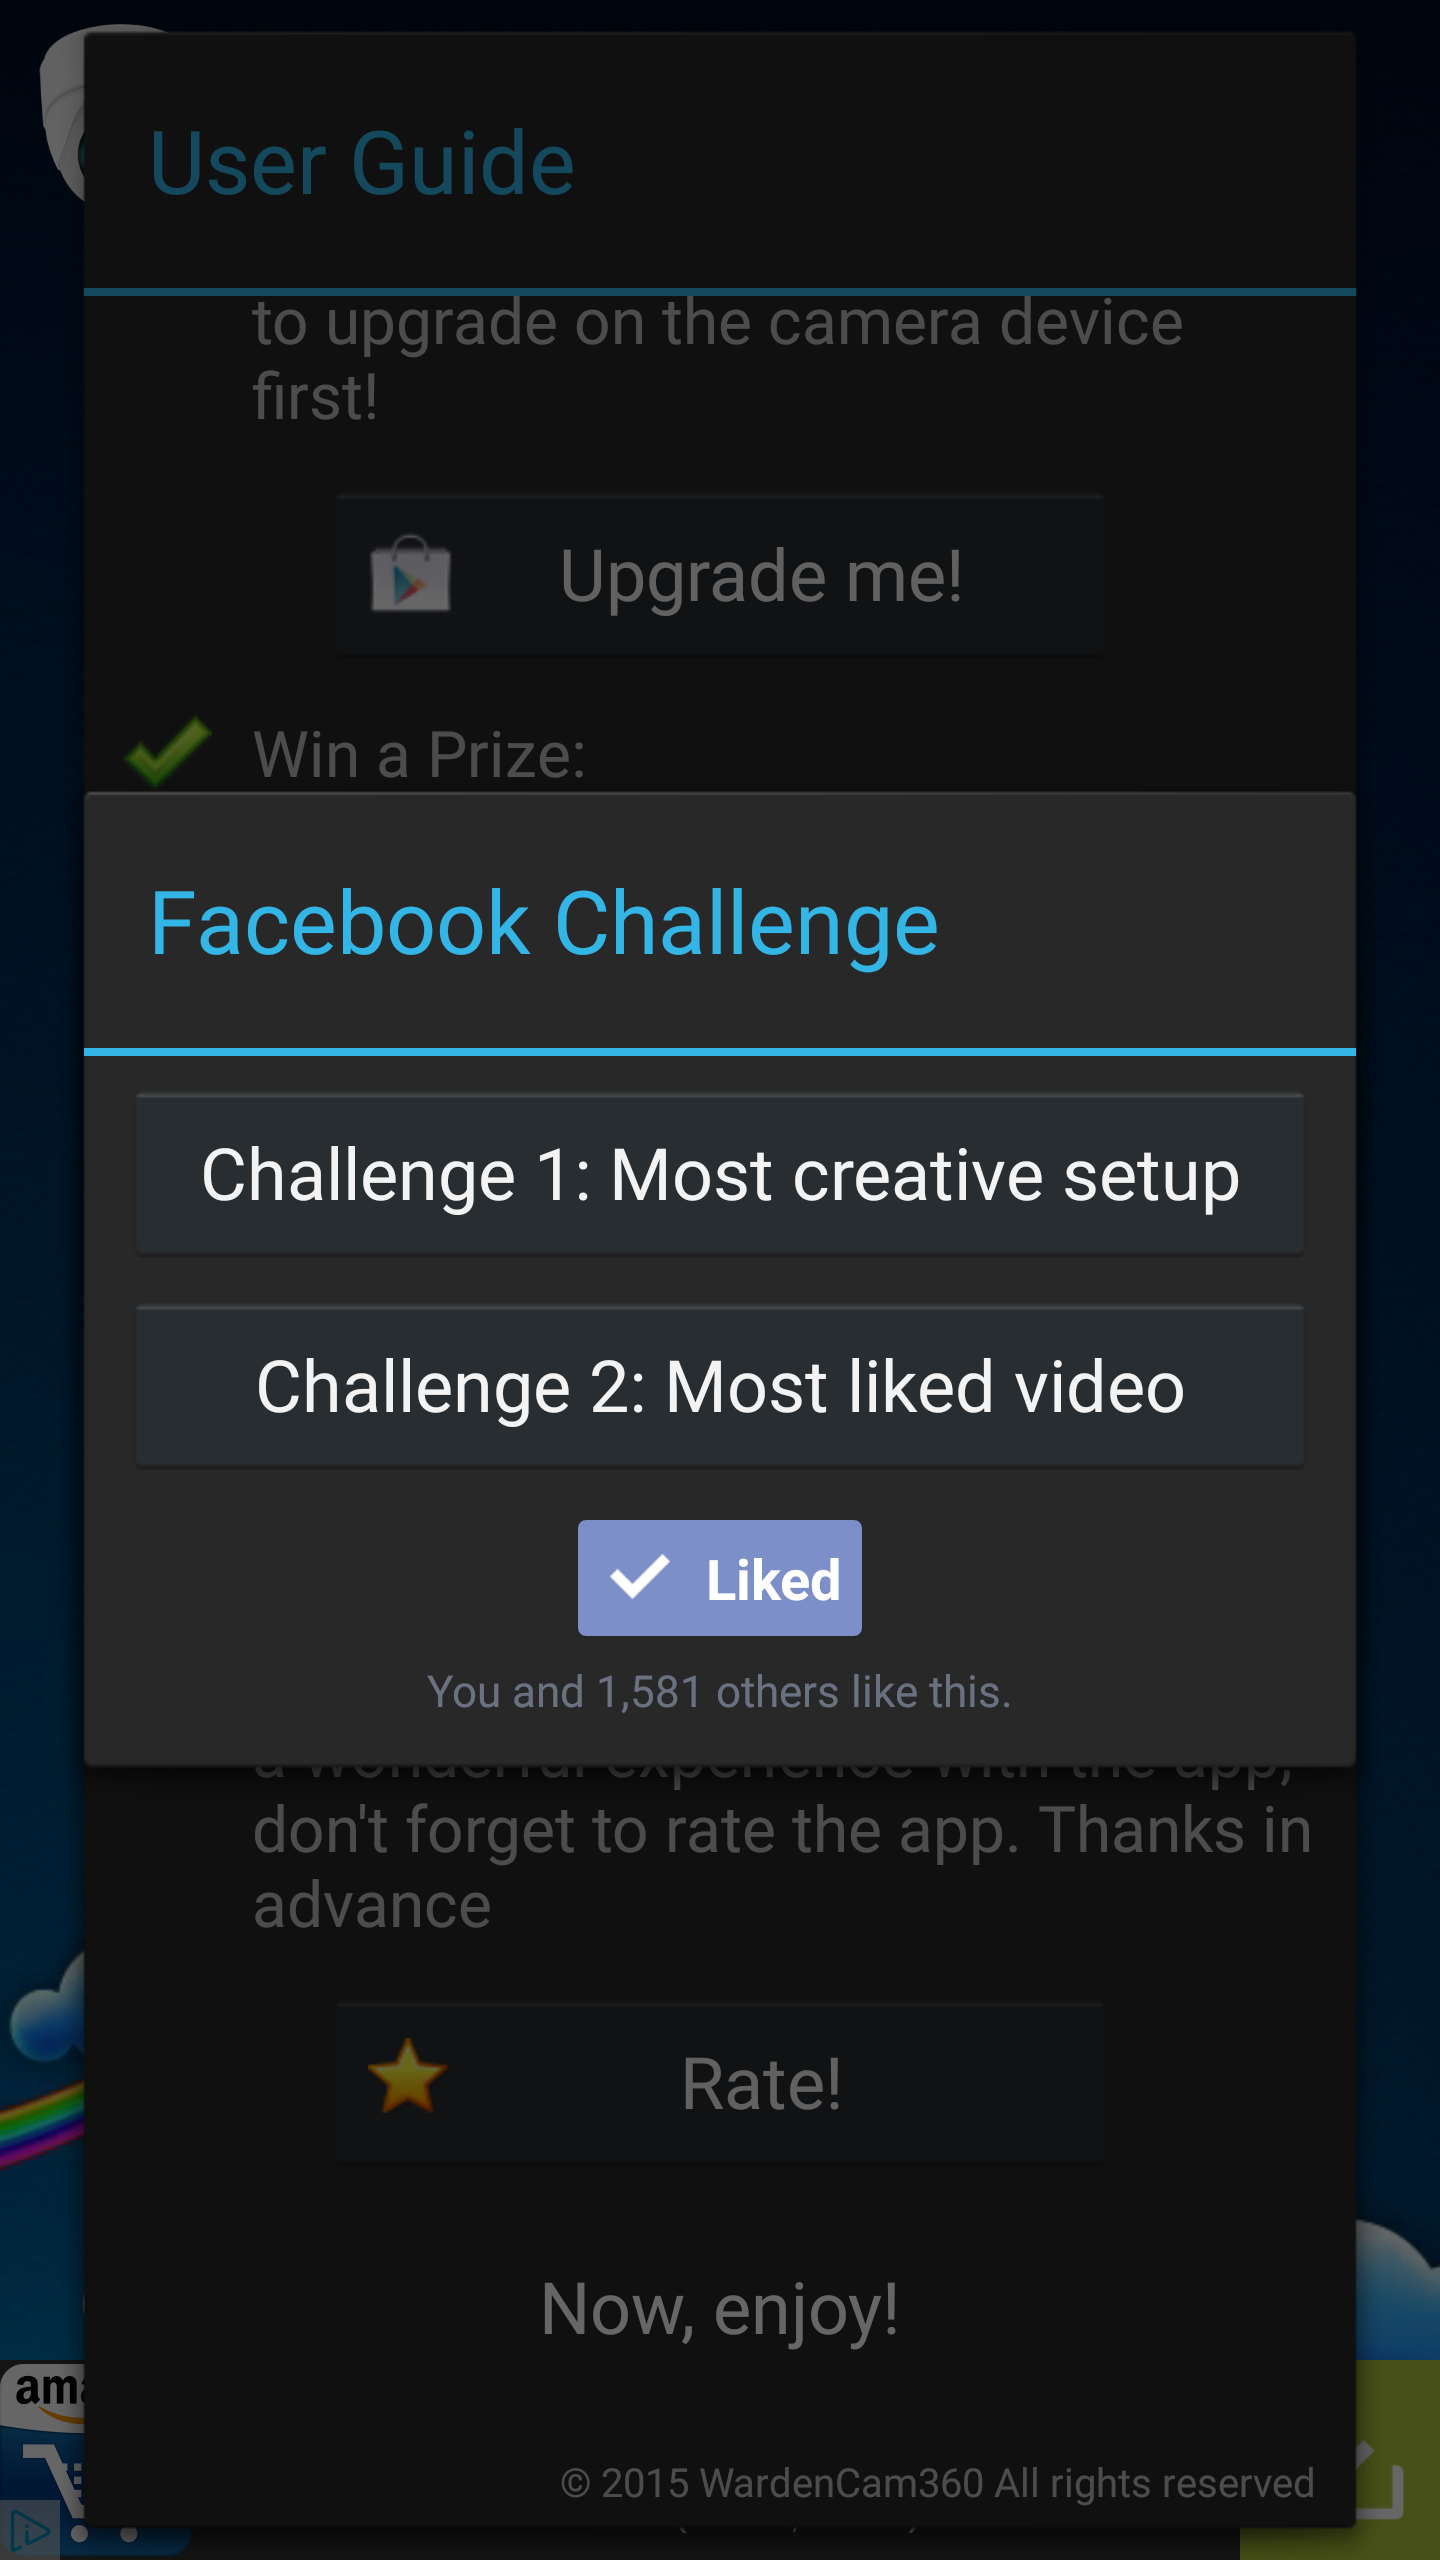
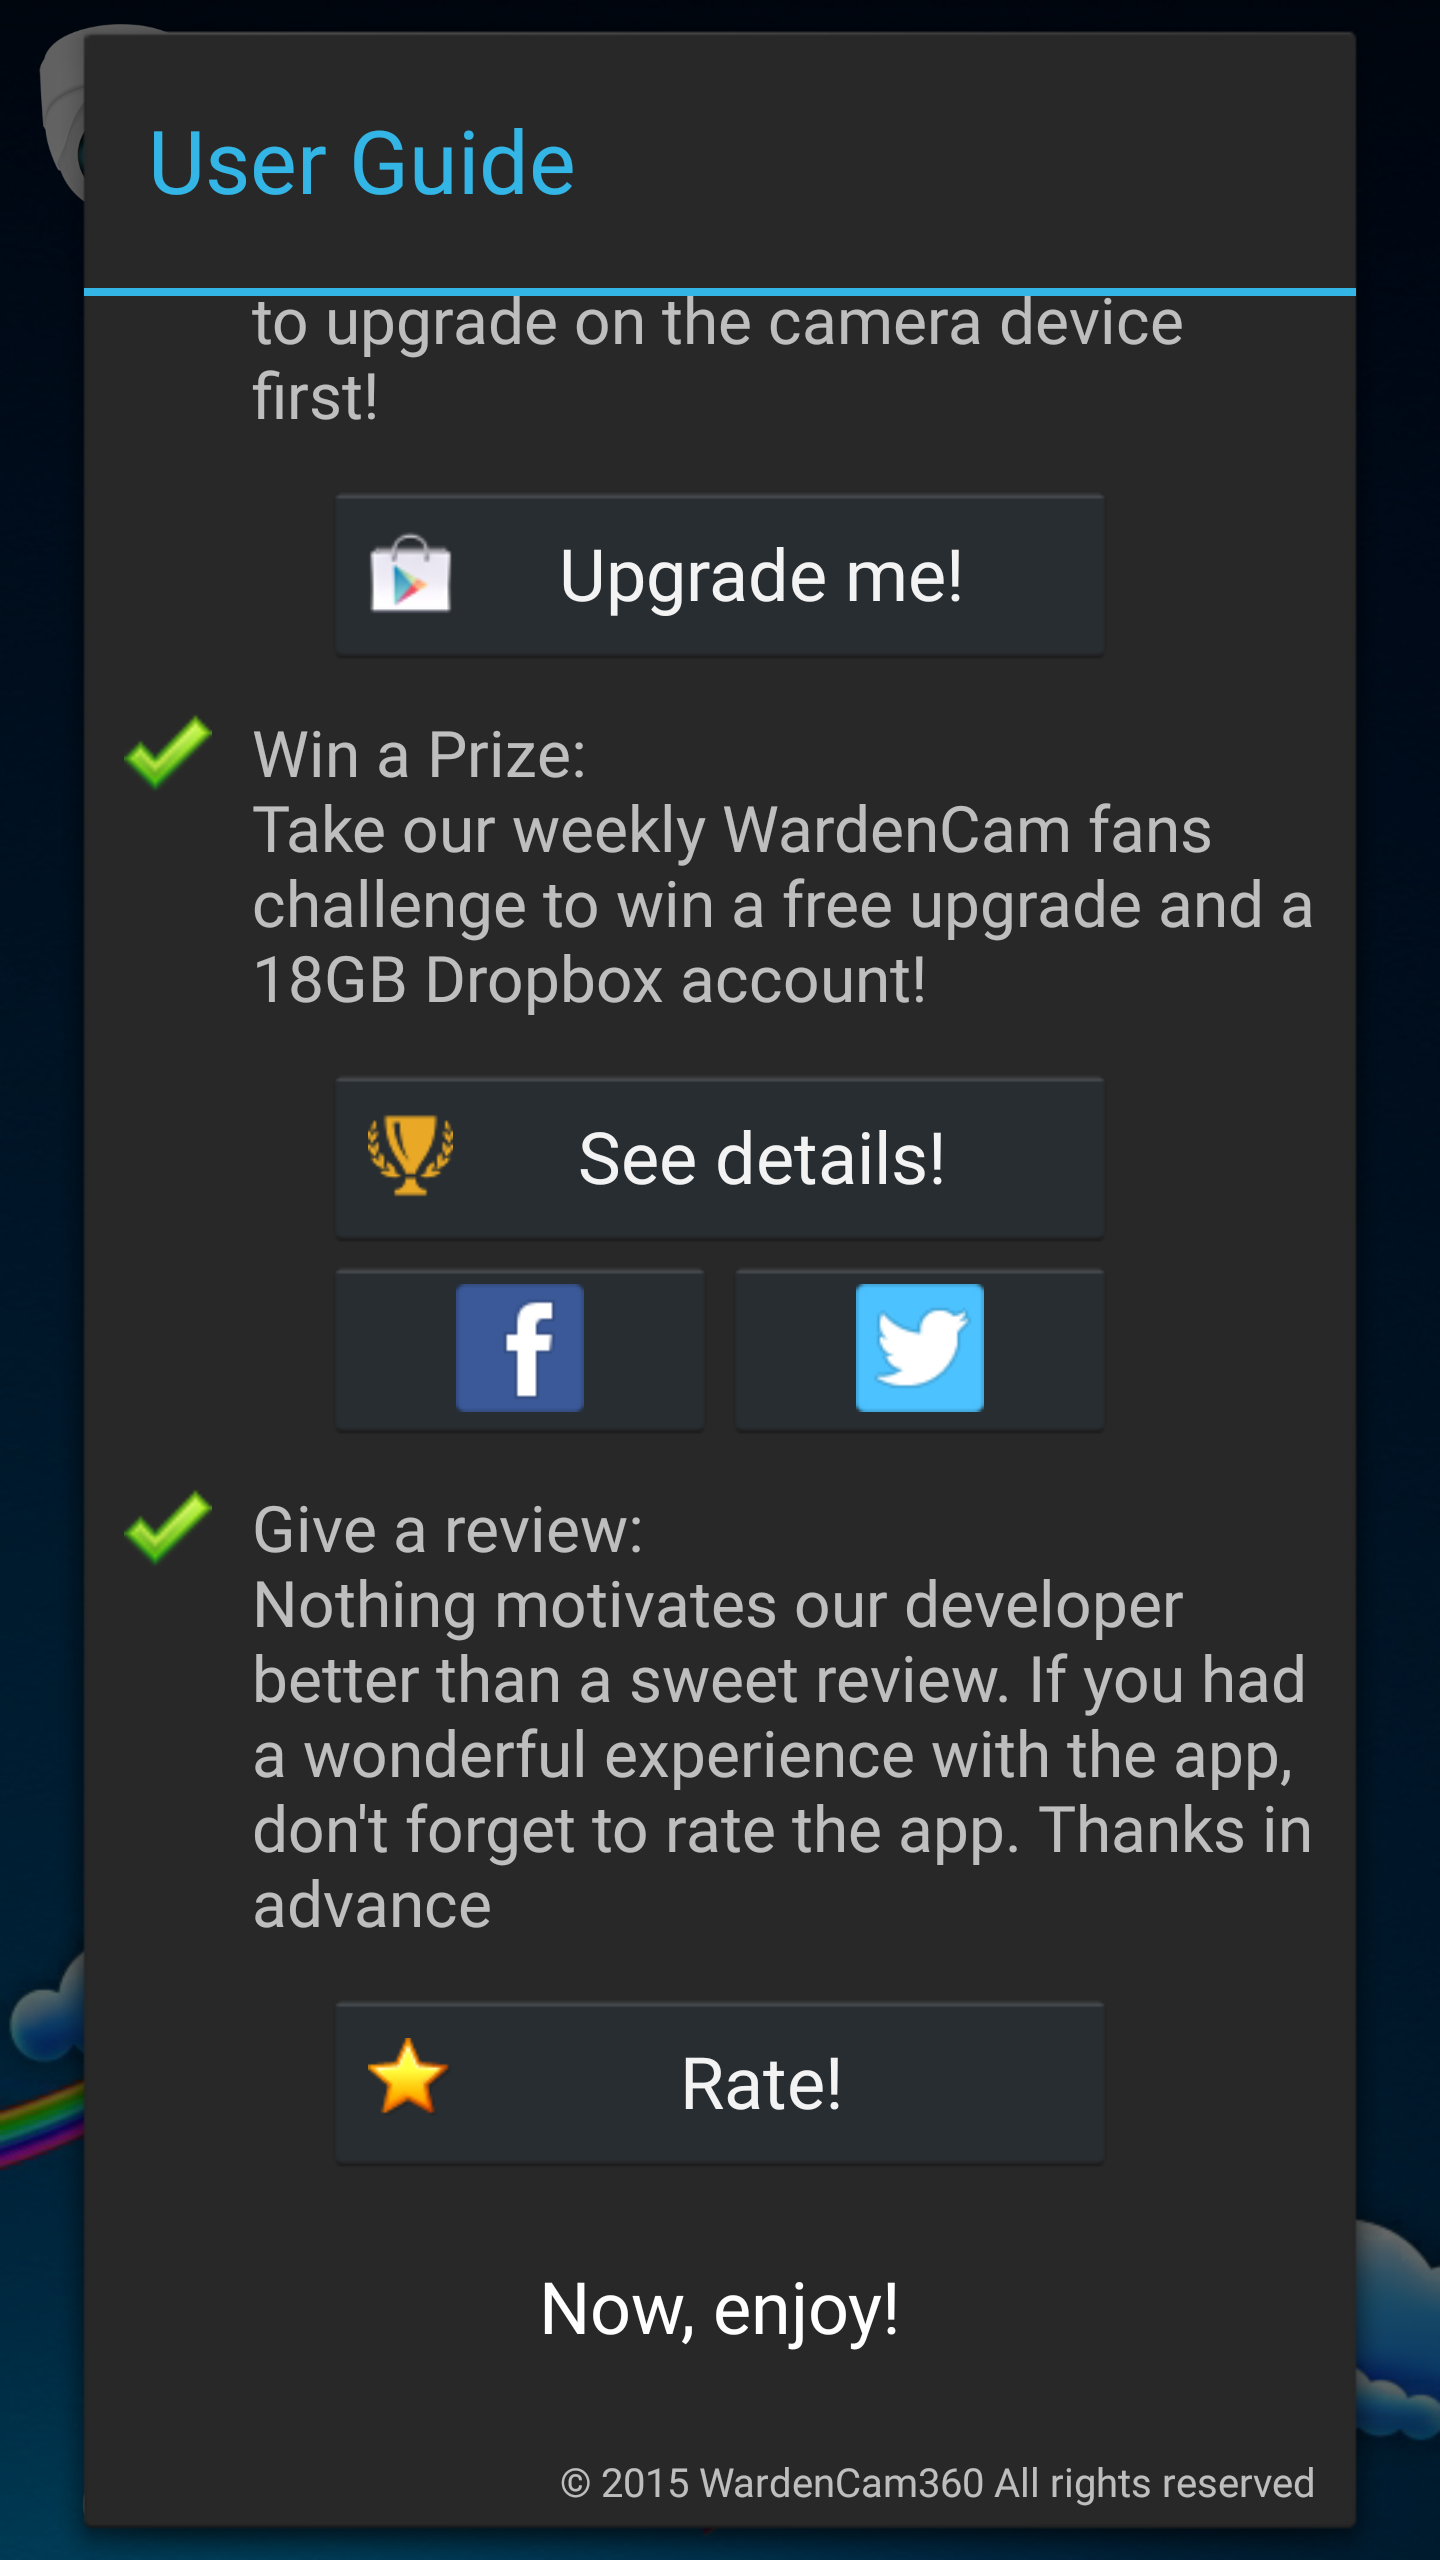
full commit

diff --git a/setupchallenge.rst b/setupchallenge.rst
@@ -8,8 +8,13 @@ Most Creative Setup
 
 How to Participate
 ------------------
-- Go to "User Guide". Press "facebook" icon in the "Win a Prize" section.
+- Go to "User Guide"
 | |user guide|
 
 .. |user guide| image:: img/user_guide.png
-  :width: 480pt
+  :width: 240pt
+- Press "facebook" icon in the "Win a Prize" section
+| |challenges|
+
+.. |challenges| image:: img/challenges.png
+  :width: 240pt
